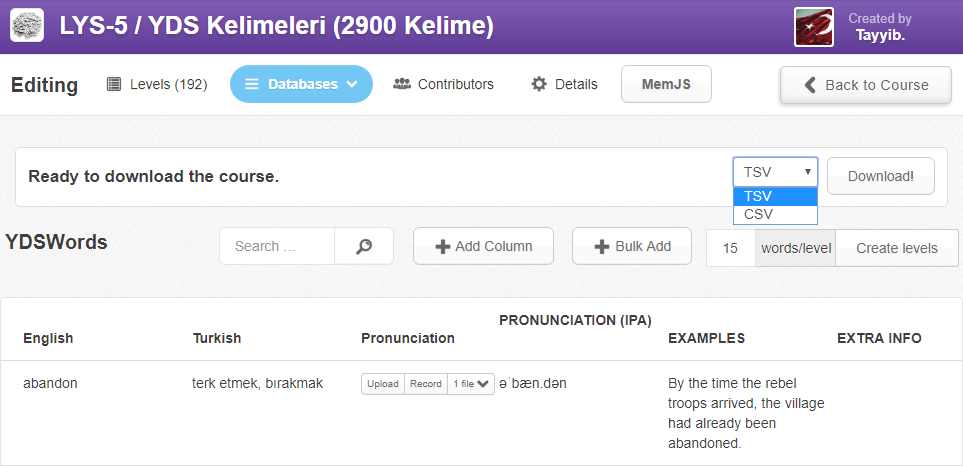
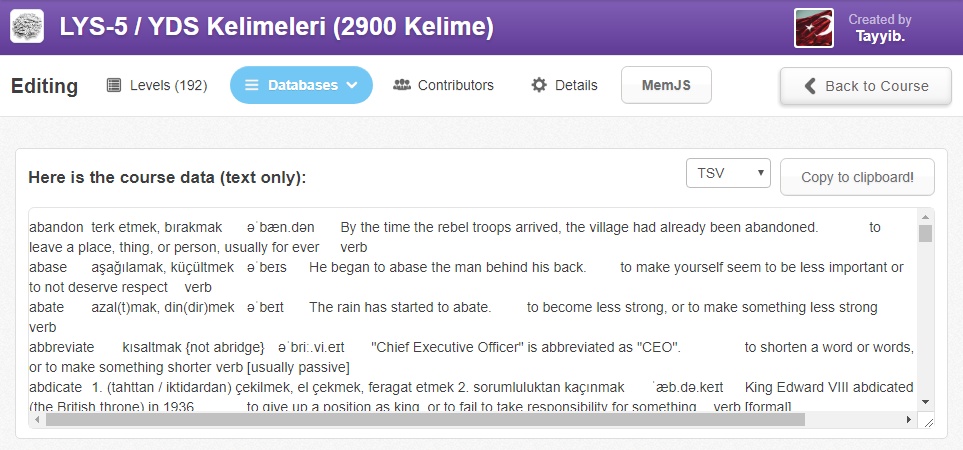
The first stable version is ready.

diff --git a/README.md b/README.md
@@ -6,17 +6,21 @@ First, you will need the appropriate user script add-on for your browser:
 - Chrome: [Tampermonkey](https://chrome.google.com/webstore/detail/tampermonkey/dhdgffkkebhmkfjojejmpbldmpobfkfo?hl=en)
 - Firefox: [Greasemonkey](https://addons.mozilla.org/en-us/firefox/addon/greasemonkey/)
  
-Next, [just click here](https://github.com/Tayyib/MemJS/raw/master/MemJS.user.js) and you should be prompted to install the script. That's it!
+Next, [just click here](https://github.com/Tayyib/MemJS/raw/master/MemJS.user.js) 
+and you should be prompted to install the script. That's it!
 
-# Features
-Currently, MemriesUtilities only adds the ability to export the list of words and definitions from a Memrise course. Once the script is installed, navigating to the main page of a course will show a new "Word list" button next to "Difficult words".
+# Features & Instruction
+Currently, MemJS only adds the ability to export the list of text data from a Memrise course.
+Once the script is installed, navigating to the main/database page of a course will add a new "MemJS" button 
+which shows and hides MemJS UI.
 
-![Screenshot1](/Images/MemriseUtilities1.png)
+![Screenshot1](/Images/Instruction1.png)
 
-Clicking "Word list" will display a loading animation underneath while the levels are indexed. Once that is complete, a textarea will appear with a tab-separated list of words, definitions, and tags from all the levels of that course.
+Just click "Download" and wait for process to finish. Once that is complete, a textarea will appear with a 
+tab-separated (or comma-separated according to your choice) list of words, definitions and other text columns 
+of your course (if you download from a database page).
 
-![Screenshot2](/Images/MemriseUtilities2.png)
+![Screenshot2](/Images/Instruction2.png)
 
-The tags are auto-generated and formatted for use in Learning With Texts (20 characters max, no spaces). They will include the name of the course and the level containing the word.
-
-Simply select all of the text in the textarea, copy it, and paste it into another app such as LWT. You can also save the list as a file and it will import into Anki to create a deck.
+Simply click "Copy to clipboard", and paste it into another app such as LWT.
+You can also save the list as a file and it will import into Anki to create a deck.
